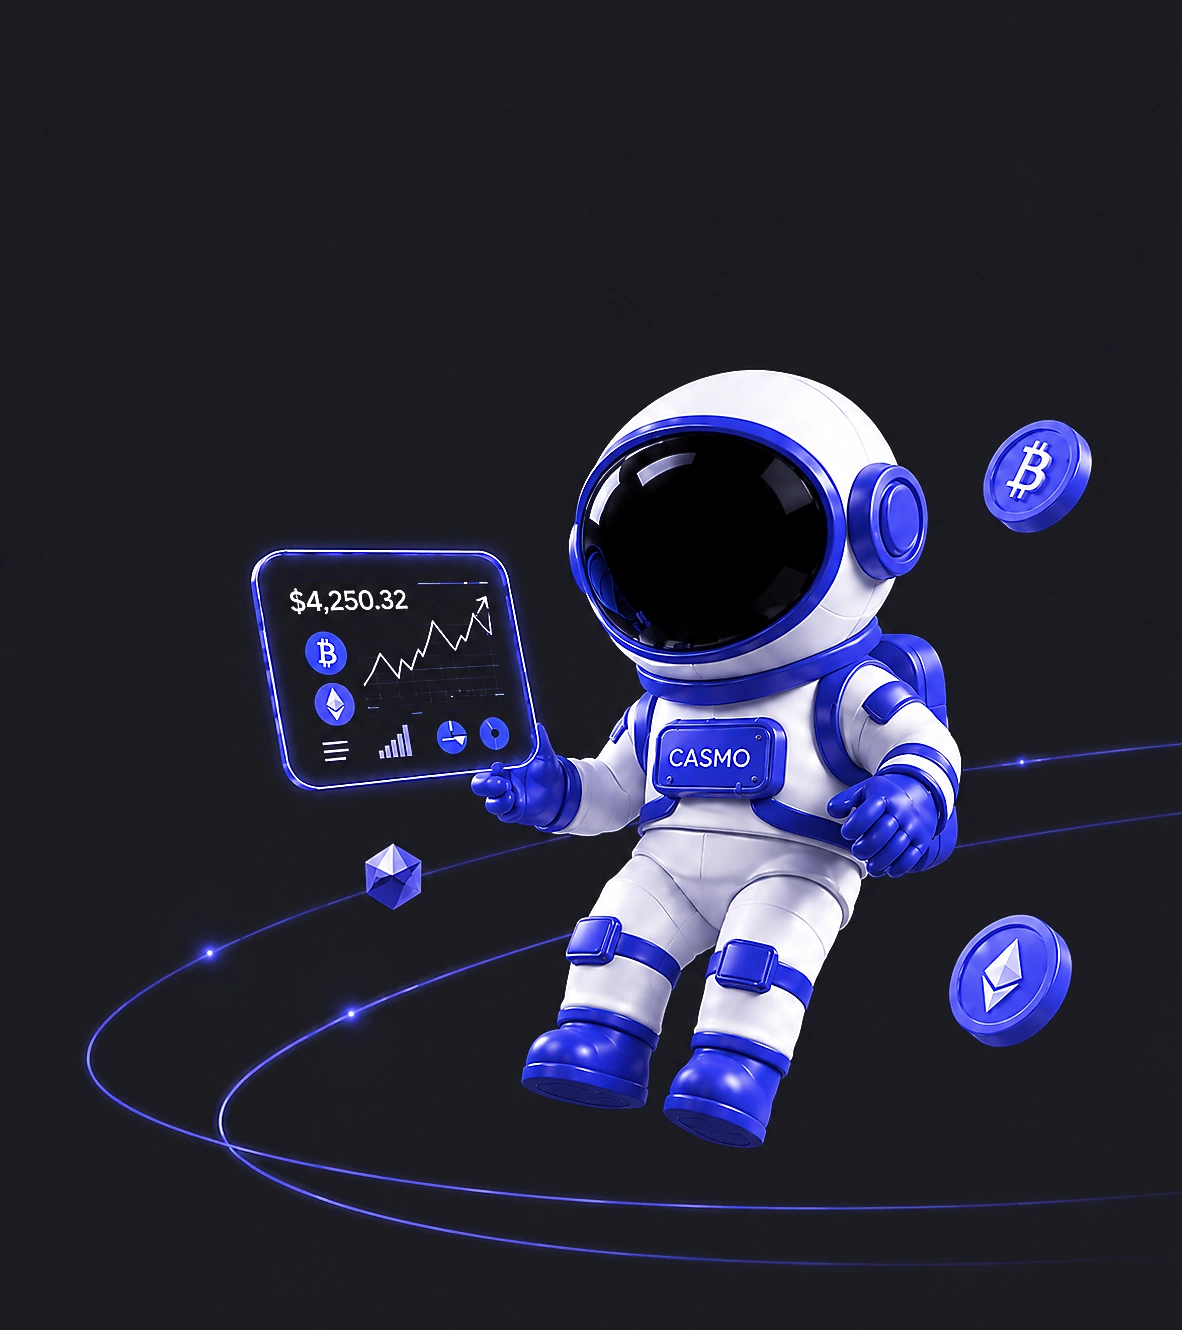
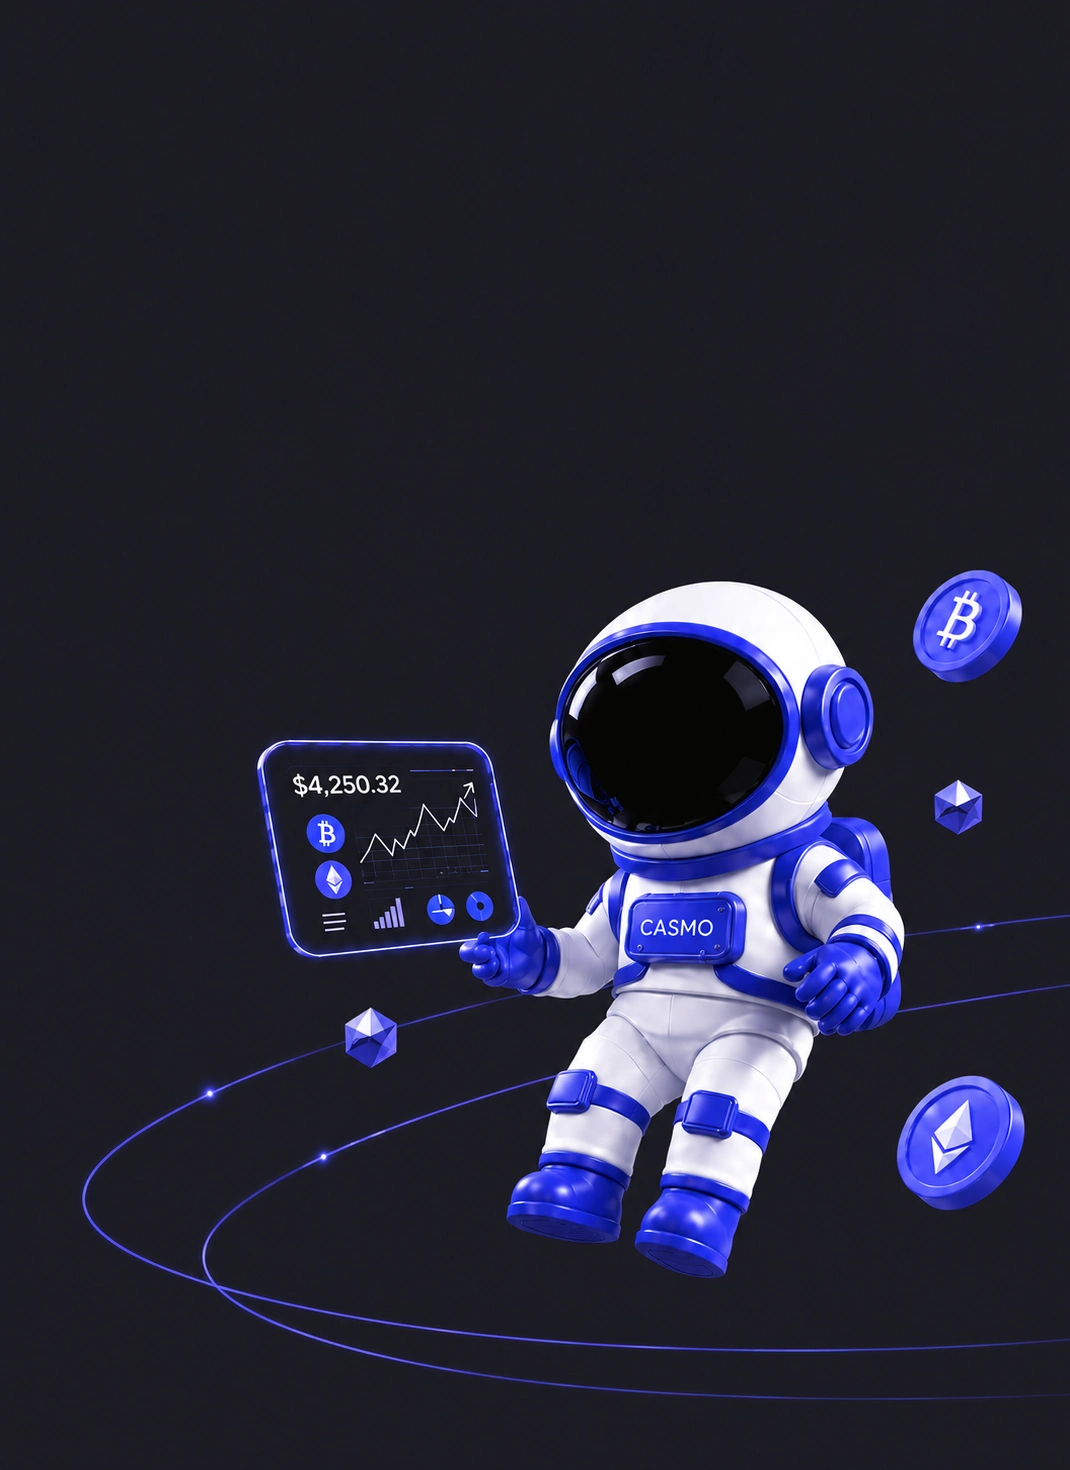
Add files via upload

Changed region(s): [[0.0925, 0.2774, 1.0, 0.9248], [0.8327, 0.3083, 0.9561, 0.4624], [0.0617, 0.6782, 0.2776, 0.8323]]

diff --git a/index.html b/index.html
@@ -133,7 +133,6 @@ nav{position:fixed;top:0;left:0;right:0;z-index:200;height:66px;
 .hero-home .hero-banner-text{left:5%;width:44%}
 .hero-banner{position:relative;width:100%;max-width:2560px}
 .hero-banner img{width:100%;height:auto;display:block}
-.hero-home .hero-banner img{mix-blend-mode:lighten}
 .hero-banner-text{position:absolute;left:5%;top:50%;transform:translateY(-50%);width:33%;text-align:left;z-index:2}
 .eyebrow{display:inline-flex;align-items:center;gap:7px;border:1px solid var(--ab);border-radius:6px;padding:6px 14px;margin-bottom:26px;background:var(--ah)}
 .ed{width:5px;height:5px;border-radius:50%;background:var(--a)}
@@ -143,19 +142,47 @@ nav{position:fixed;top:0;left:0;right:0;z-index:200;height:66px;
 .hero-sub{font-size:min(.95vw,21px);font-weight:300;color:var(--t2);line-height:1.55;margin:0 0 min(1.7vw,30px)}
 .hero-btns{display:flex;gap:min(.7vw,12px);justify-content:flex-start;flex-wrap:wrap;margin-bottom:0}
 .hero-btns .bp,.hero-btns .bg{padding:min(.95vw,17px) min(2vw,36px);font-size:min(.85vw,15px)}
+.hero-mob{display:none;position:relative;width:100%;min-height:100svh;background:#1E1E25;overflow:hidden}
+.hero-mob-img-wrap{position:absolute;inset:0;z-index:0}
+.hero-mob-img{width:100%;height:100%;object-fit:cover;object-position:center bottom}
+.hero-mob-text{position:relative;z-index:1;padding:100px 24px 0;text-align:center}
+.hero-mob-text h1{font-size:clamp(28px,8vw,42px);font-weight:700;letter-spacing:-.02em;line-height:1.1;margin-bottom:14px}
+.hero-mob-text .hero-sub{font-size:15px;line-height:1.65;max-width:360px;margin:0 auto 24px;color:rgba(255,255,255,.7)}
+.hero-mob-btns{display:flex;flex-direction:column;align-items:center;gap:10px}
+.hero-mob-btns .bp,.hero-mob-btns .bg{width:100%;max-width:320px;padding:14px;font-size:15px;text-align:center;border-radius:10px}
 @media (max-width:1100px){
-  .hero-home{min-height:auto;padding:80px 24px 60px}
-  .hero-home .hero-banner-outer{position:static;inset:auto}
-  .hero-home .hero-banner{height:auto}
-  .hero-banner{aspect-ratio:auto;border-radius:0;overflow:visible}
-  .hero-banner img{display:none}
-  .hero-banner img.mobile-img{display:block;width:100%;height:auto;max-width:560px;margin:0 auto}
-  .hero-banner-text{position:static;transform:none;width:100%;text-align:center}
-  .hero-home .hero-banner-text{left:auto;width:100%}
-  .hero h1{font-size:clamp(30px,7vw,52px);margin-bottom:16px}
-  .hero-sub{font-size:16px;line-height:1.7;max-width:480px;margin:0 auto 28px}
-  .hero-btns{justify-content:center}
-  .hero-btns .bp,.hero-btns .bg{padding:14px 30px;font-size:14px}
+  /* Скрываем десктопную картинку */
+  .hero-mob{display:block}
+  .hero-home{display:none}
+  /* Мобильный hero: текст сверху + картинка снизу */
+  .hero-home{
+    min-height:100svh;
+    padding:0;
+    display:flex;
+    flex-direction:column;
+    align-items:stretch;
+    justify-content:flex-start;
+  }
+  .hero-mobile-wrap{
+    display:flex;
+    flex-direction:column;
+    align-items:center;
+    padding:90px 24px 0;
+    text-align:center;
+    flex:1;
+  }
+  .hero-mobile-img{
+    width:100%;
+    max-width:480px;
+    height:auto;
+    display:block;
+    margin:0 auto;
+    flex-shrink:0;
+  }
+  .hero h1{font-size:clamp(28px,7vw,48px);margin-bottom:14px;text-align:center}
+  .hero-sub{font-size:15px;line-height:1.65;max-width:420px;margin:0 auto 24px;text-align:center}
+  .hero-btns{justify-content:center;flex-direction:column;align-items:center;gap:10px}
+  .hero-btns .bp,.hero-btns .bg{width:100%;max-width:320px;padding:14px 30px;font-size:15px;text-align:center}
 }
 @media (max-width:768px){
   .hero-home{padding:72px 20px 48px}
@@ -588,6 +615,21 @@ nav{position:fixed;top:0;left:0;right:0;z-index:200;height:66px;
   </div>
   </div>
 </div>
+
+<!-- MOBILE HERO (только < 1100px) -->
+<section class="hero-mob" aria-hidden="false">
+  <div class="hero-mob-img-wrap">
+    <img src="astronaut-hero-mobile.webp" alt="" loading="eager" class="hero-mob-img">
+  </div>
+  <div class="hero-mob-text">
+    <h1><span data-i="h1a">Конвертация капитала</span><br><span class="ac" data-i="h1b">Платёжная инфраструктура</span></h1>
+    <p class="hero-sub" data-i="hsub">Конвертация, оплата поставщиков, AML-проверки и OTC B2B. Для бизнеса и частных клиентов.</p>
+    <div class="hero-mob-btns">
+      <button class="bp" onclick="go('business')" data-i="hcta1">Для компаний</button>
+      <button class="bg" onclick="go('individuals')" data-i="hcta2">Для физлиц</button>
+    </div>
+  </div>
+</section>
 
 <!-- SEGMENT CHOOSER -->
 <div class="seg-grid rv d1">